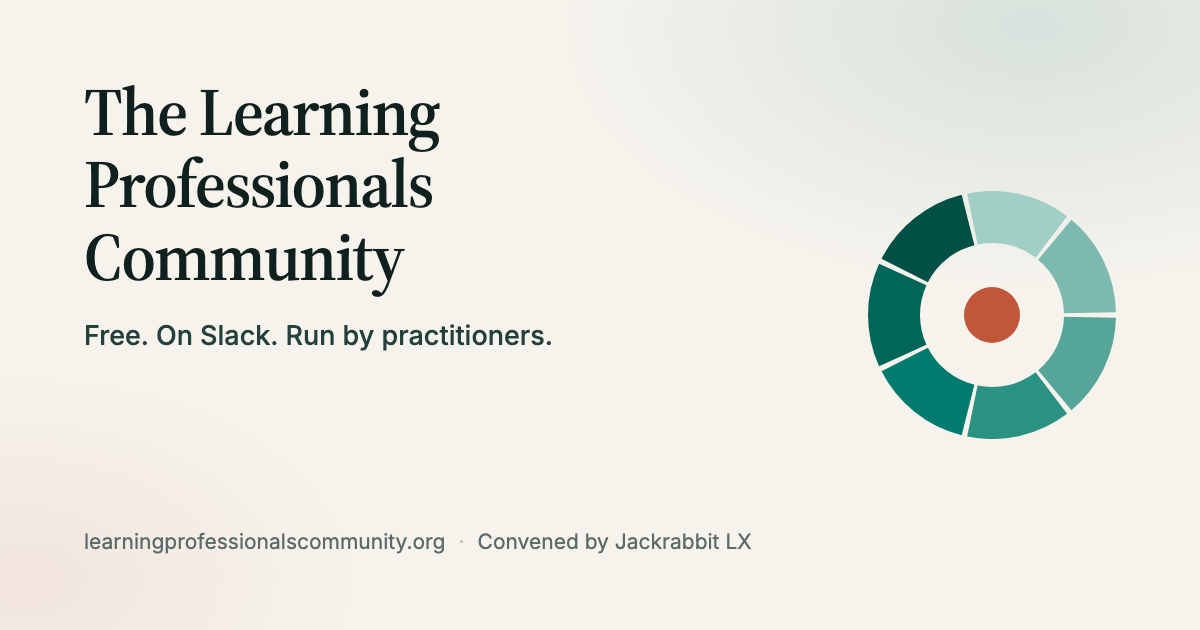
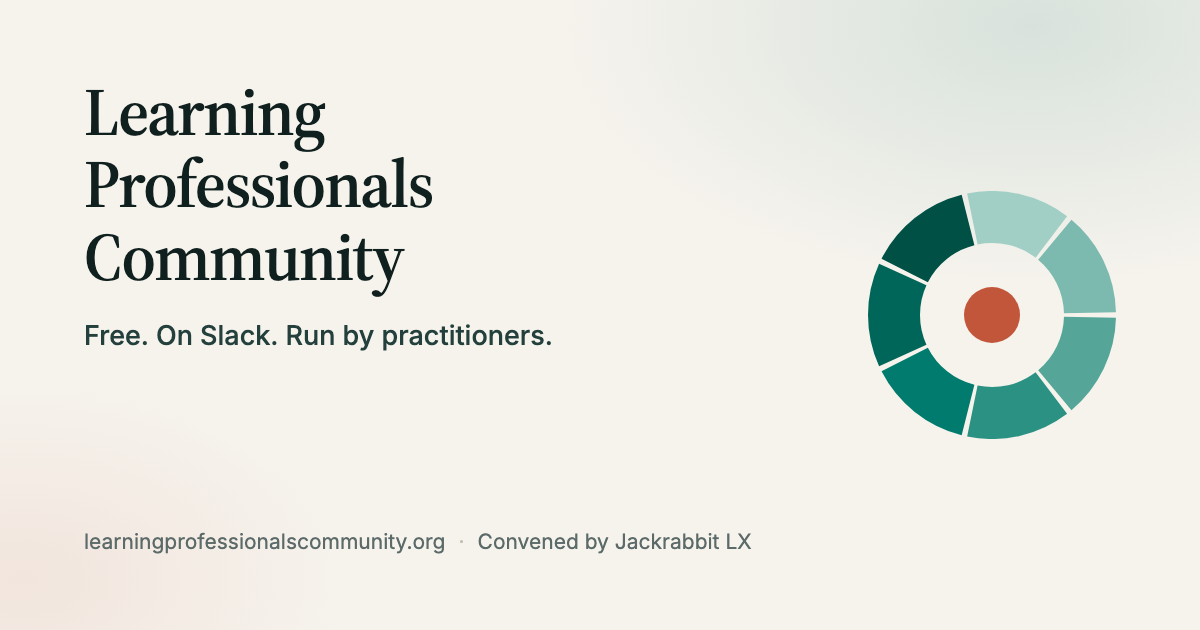
Drop "The" from the name
The name is Learning Professionals Community. A lowercase article in a
sentence is still fine; "The" is not part of the name.

The site was already split on this: 14 instances carried "The" while the
three page wordmarks did not, so the logo disagreed with the title tag,
the footer and the social card.

Dropping it also avoids claiming to be the definitive community for
learning professionals, which reads badly to an audience that has just
left one community over how it was owned, and which cuts against the
"join either or both" framing of the thread this is aimed at.

Social card re-rendered. research.html's "The Research" is unaffected.

Changed region(s): [[0.0617, 0.1206, 0.37, 0.2413]]

diff --git a/reading-list.html b/reading-list.html
@@ -4,18 +4,18 @@
 <meta charset="UTF-8">
 <meta name="viewport" content="width=device-width, initial-scale=1.0">
 <meta name="description" content="Recent skills research from across the field, 2024 to 2026, read and sorted, with a note on where our own work fits among it.">
-<meta property="og:title" content="Reading list &middot; The Learning Professionals Community">
+<meta property="og:title" content="Reading list &middot; Learning Professionals Community">
 <meta property="og:description" content="Recent skills research from across the field, 2024 to 2026, read and sorted, with a note on where our own work fits among it.">
 <meta property="og:type" content="article">
 <meta property="og:url" content="https://learningprofessionalscommunity.org/reading-list.html">
 <meta property="og:image" content="https://learningprofessionalscommunity.org/assets/og-card.png">
 <meta property="og:image:width" content="1200">
 <meta property="og:image:height" content="630">
-<meta property="og:image:alt" content="The Learning Professionals Community. Free. On Slack. Run by practitioners.">
-<meta property="og:site_name" content="The Learning Professionals Community">
+<meta property="og:image:alt" content="Learning Professionals Community. Free. On Slack. Run by practitioners.">
+<meta property="og:site_name" content="Learning Professionals Community">
 <meta name="twitter:card" content="summary_large_image">
 <meta name="twitter:image" content="https://learningprofessionalscommunity.org/assets/og-card.png">
-<title>Reading list · The Learning Professionals Community</title>
+<title>Reading list · Learning Professionals Community</title>
 <link rel="preconnect" href="https://fonts.googleapis.com">
 <link rel="preconnect" href="https://fonts.gstatic.com" crossorigin>
 <link href="https://fonts.googleapis.com/css2?family=Inter:wght@400;500;600;700&family=Source+Serif+4:opsz,wght@8..60,400;8..60,600;8..60,700&display=swap" rel="stylesheet">
@@ -198,7 +198,7 @@
     </div>
   </div>
 
-  <p class="foot">The Learning Professionals Community · Convened by <a href="https://jackrabbitlx.com">Jackrabbit Learning Experience</a> · 2026</p>
+  <p class="foot">Learning Professionals Community · Convened by <a href="https://jackrabbitlx.com">Jackrabbit Learning Experience</a> · 2026</p>
 
 </div>
 </body>

diff --git a/index.html b/index.html
@@ -3,17 +3,17 @@
 <head>
 <meta charset="UTF-8">
 <meta name="viewport" content="width=device-width, initial-scale=1.0">
-<title>The Learning Professionals Community</title>
+<title>Learning Professionals Community</title>
 <meta name="description" content="A cross-sector community for learning professionals working out what AI means for the profession. A working Slack, free live events, and research built from our own answers.">
-<meta property="og:title" content="The Learning Professionals Community">
+<meta property="og:title" content="Learning Professionals Community">
 <meta property="og:description" content="Corporate L&amp;D, higher ed, K-12, consulting, associations, workforce development, customer education. Nobody has the full answer yet, so we're working it out in the open.">
 <meta property="og:type" content="website">
 <meta property="og:url" content="https://learningprofessionalscommunity.org/">
 <meta property="og:image" content="https://learningprofessionalscommunity.org/assets/og-card.png">
 <meta property="og:image:width" content="1200">
 <meta property="og:image:height" content="630">
-<meta property="og:image:alt" content="The Learning Professionals Community. Free. On Slack. Run by practitioners.">
-<meta property="og:site_name" content="The Learning Professionals Community">
+<meta property="og:image:alt" content="Learning Professionals Community. Free. On Slack. Run by practitioners.">
+<meta property="og:site_name" content="Learning Professionals Community">
 <meta name="twitter:card" content="summary_large_image">
 <meta name="twitter:image" content="https://learningprofessionalscommunity.org/assets/og-card.png">
 <link rel="icon" href="assets/mark.svg" type="image/svg+xml">
@@ -540,7 +540,7 @@
   <div class="wrap">
     <div class="foot-grid">
       <div>
-        <div class="foot-name">The Learning Professionals Community</div>
+        <div class="foot-name">Learning Professionals Community</div>
         <p>A cross-sector community for people who build how other people learn. We're working out what AI means for the profession, in the open.</p>
       </div>
       <div class="foot-col">

diff --git a/research.html b/research.html
@@ -11,8 +11,8 @@
 <meta property="og:image" content="https://learningprofessionalscommunity.org/assets/og-card.png">
 <meta property="og:image:width" content="1200">
 <meta property="og:image:height" content="630">
-<meta property="og:image:alt" content="The Learning Professionals Community. Free. On Slack. Run by practitioners.">
-<meta property="og:site_name" content="The Learning Professionals Community">
+<meta property="og:image:alt" content="Learning Professionals Community. Free. On Slack. Run by practitioners.">
+<meta property="og:site_name" content="Learning Professionals Community">
 <meta name="twitter:card" content="summary_large_image">
 <meta name="twitter:image" content="https://learningprofessionalscommunity.org/assets/og-card.png">
 <title>Future Skills for Learning Professionals: The Research</title>
@@ -282,7 +282,7 @@
     <a href="assets/future-skills-report.pdf" class="cta-btn secondary">Download the full report (PDF)</a>
   </div>
 
-  <p class="foot">Survey ran April 6 to May 18, 2026 · The Learning Professionals Community · Convened by <a href="https://jackrabbitlx.com">Jackrabbit Learning Experience</a></p>
+  <p class="foot">Survey ran April 6 to May 18, 2026 · Learning Professionals Community · Convened by <a href="https://jackrabbitlx.com">Jackrabbit Learning Experience</a></p>
 
 </div>
 <script>

diff --git a/assets/og-card.html b/assets/og-card.html
@@ -34,7 +34,7 @@
   </svg>
   <div class="pad">
     <div>
-      <h1>The Learning Professionals Community</h1>
+      <h1>Learning Professionals Community</h1>
       <div class="line">Free. On Slack. Run by practitioners.</div>
     </div>
     <div class="foot">
